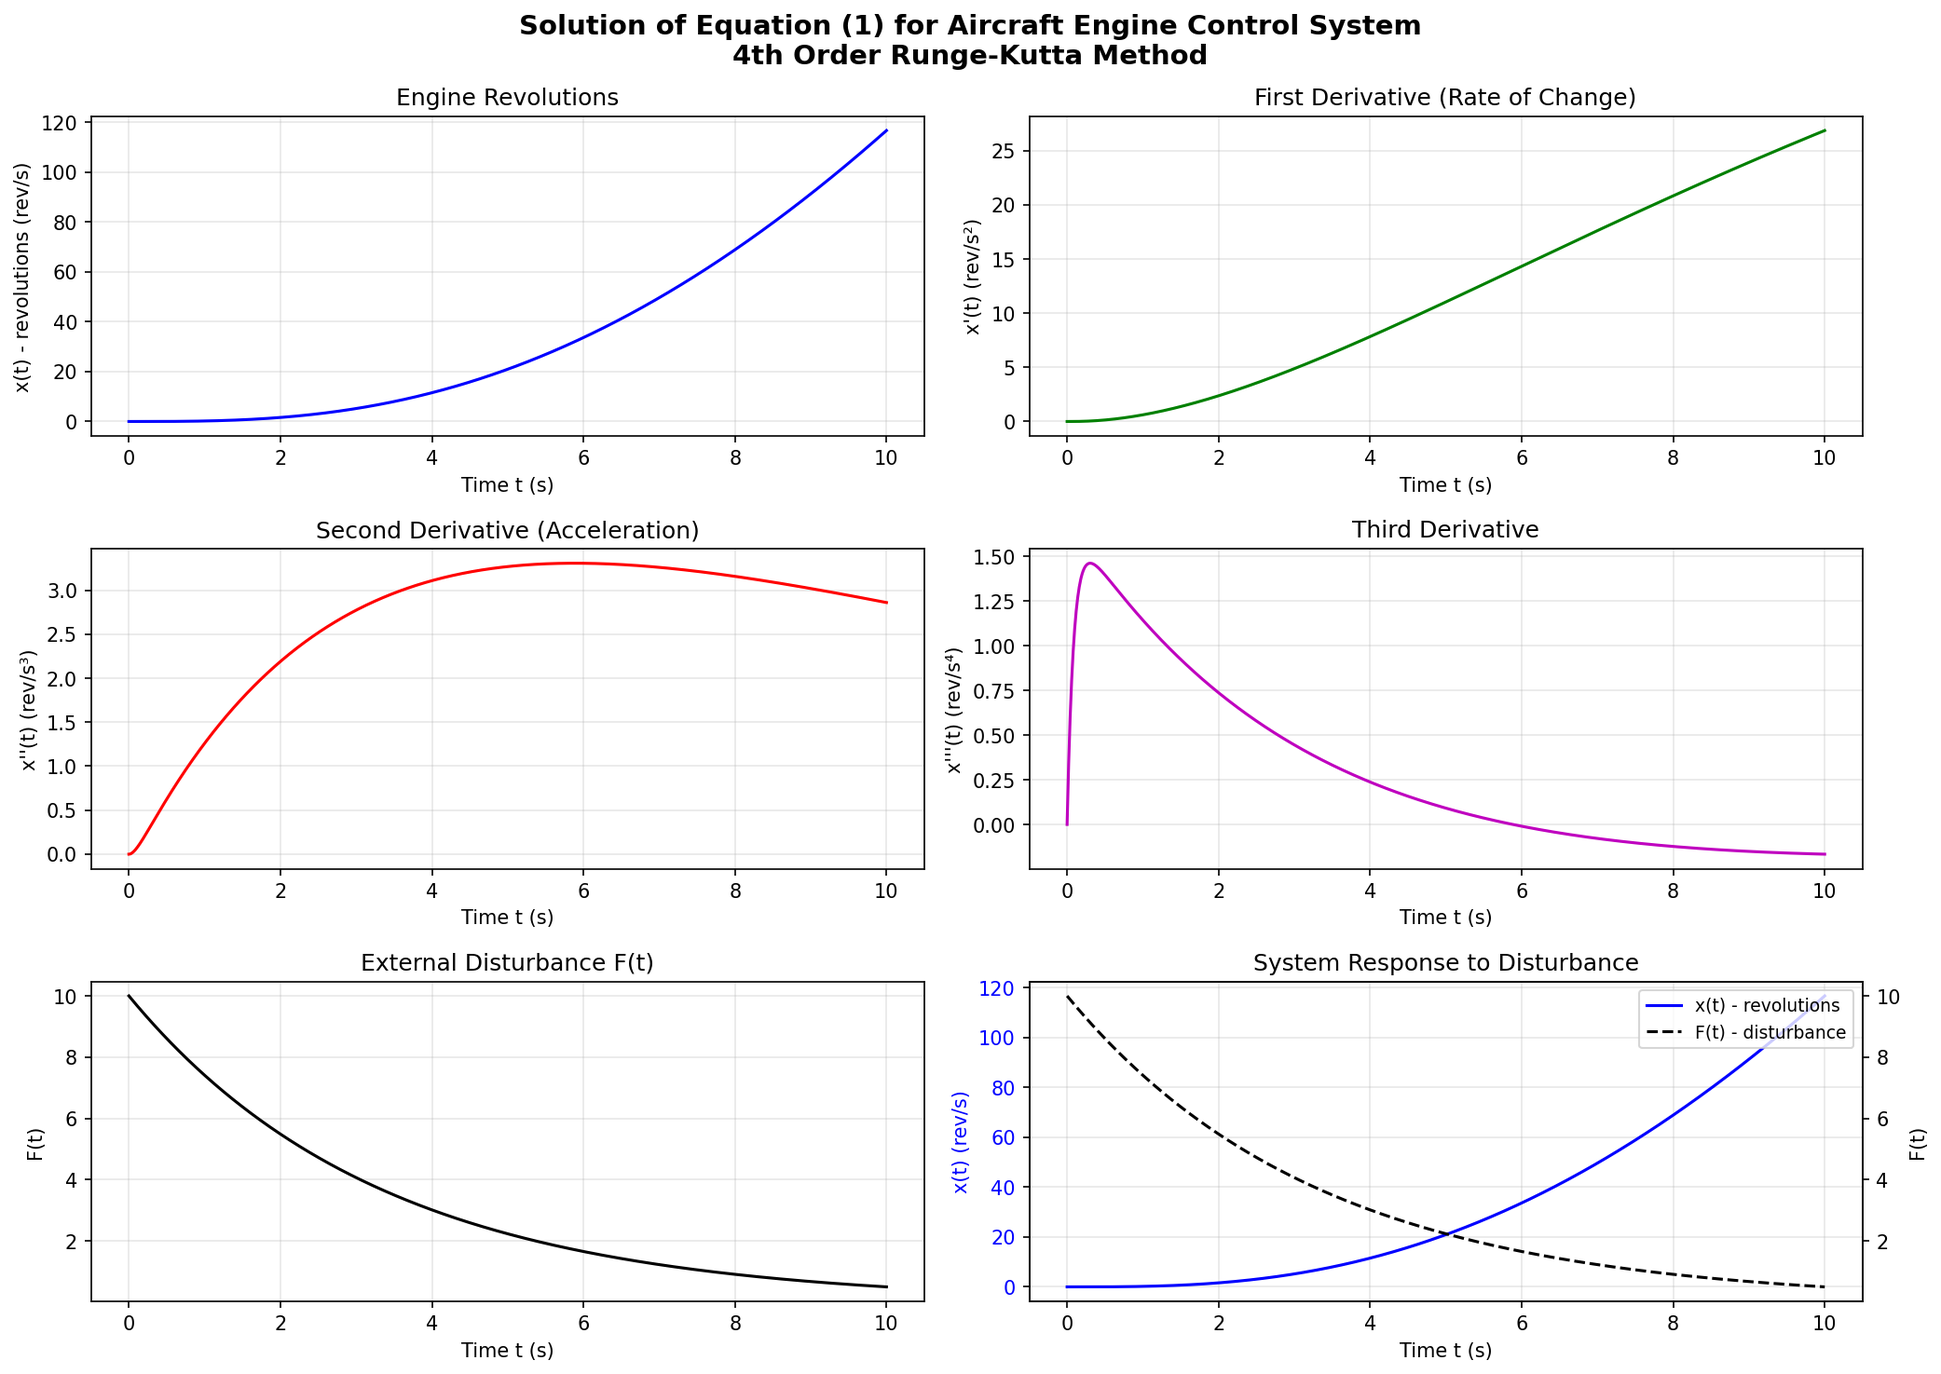
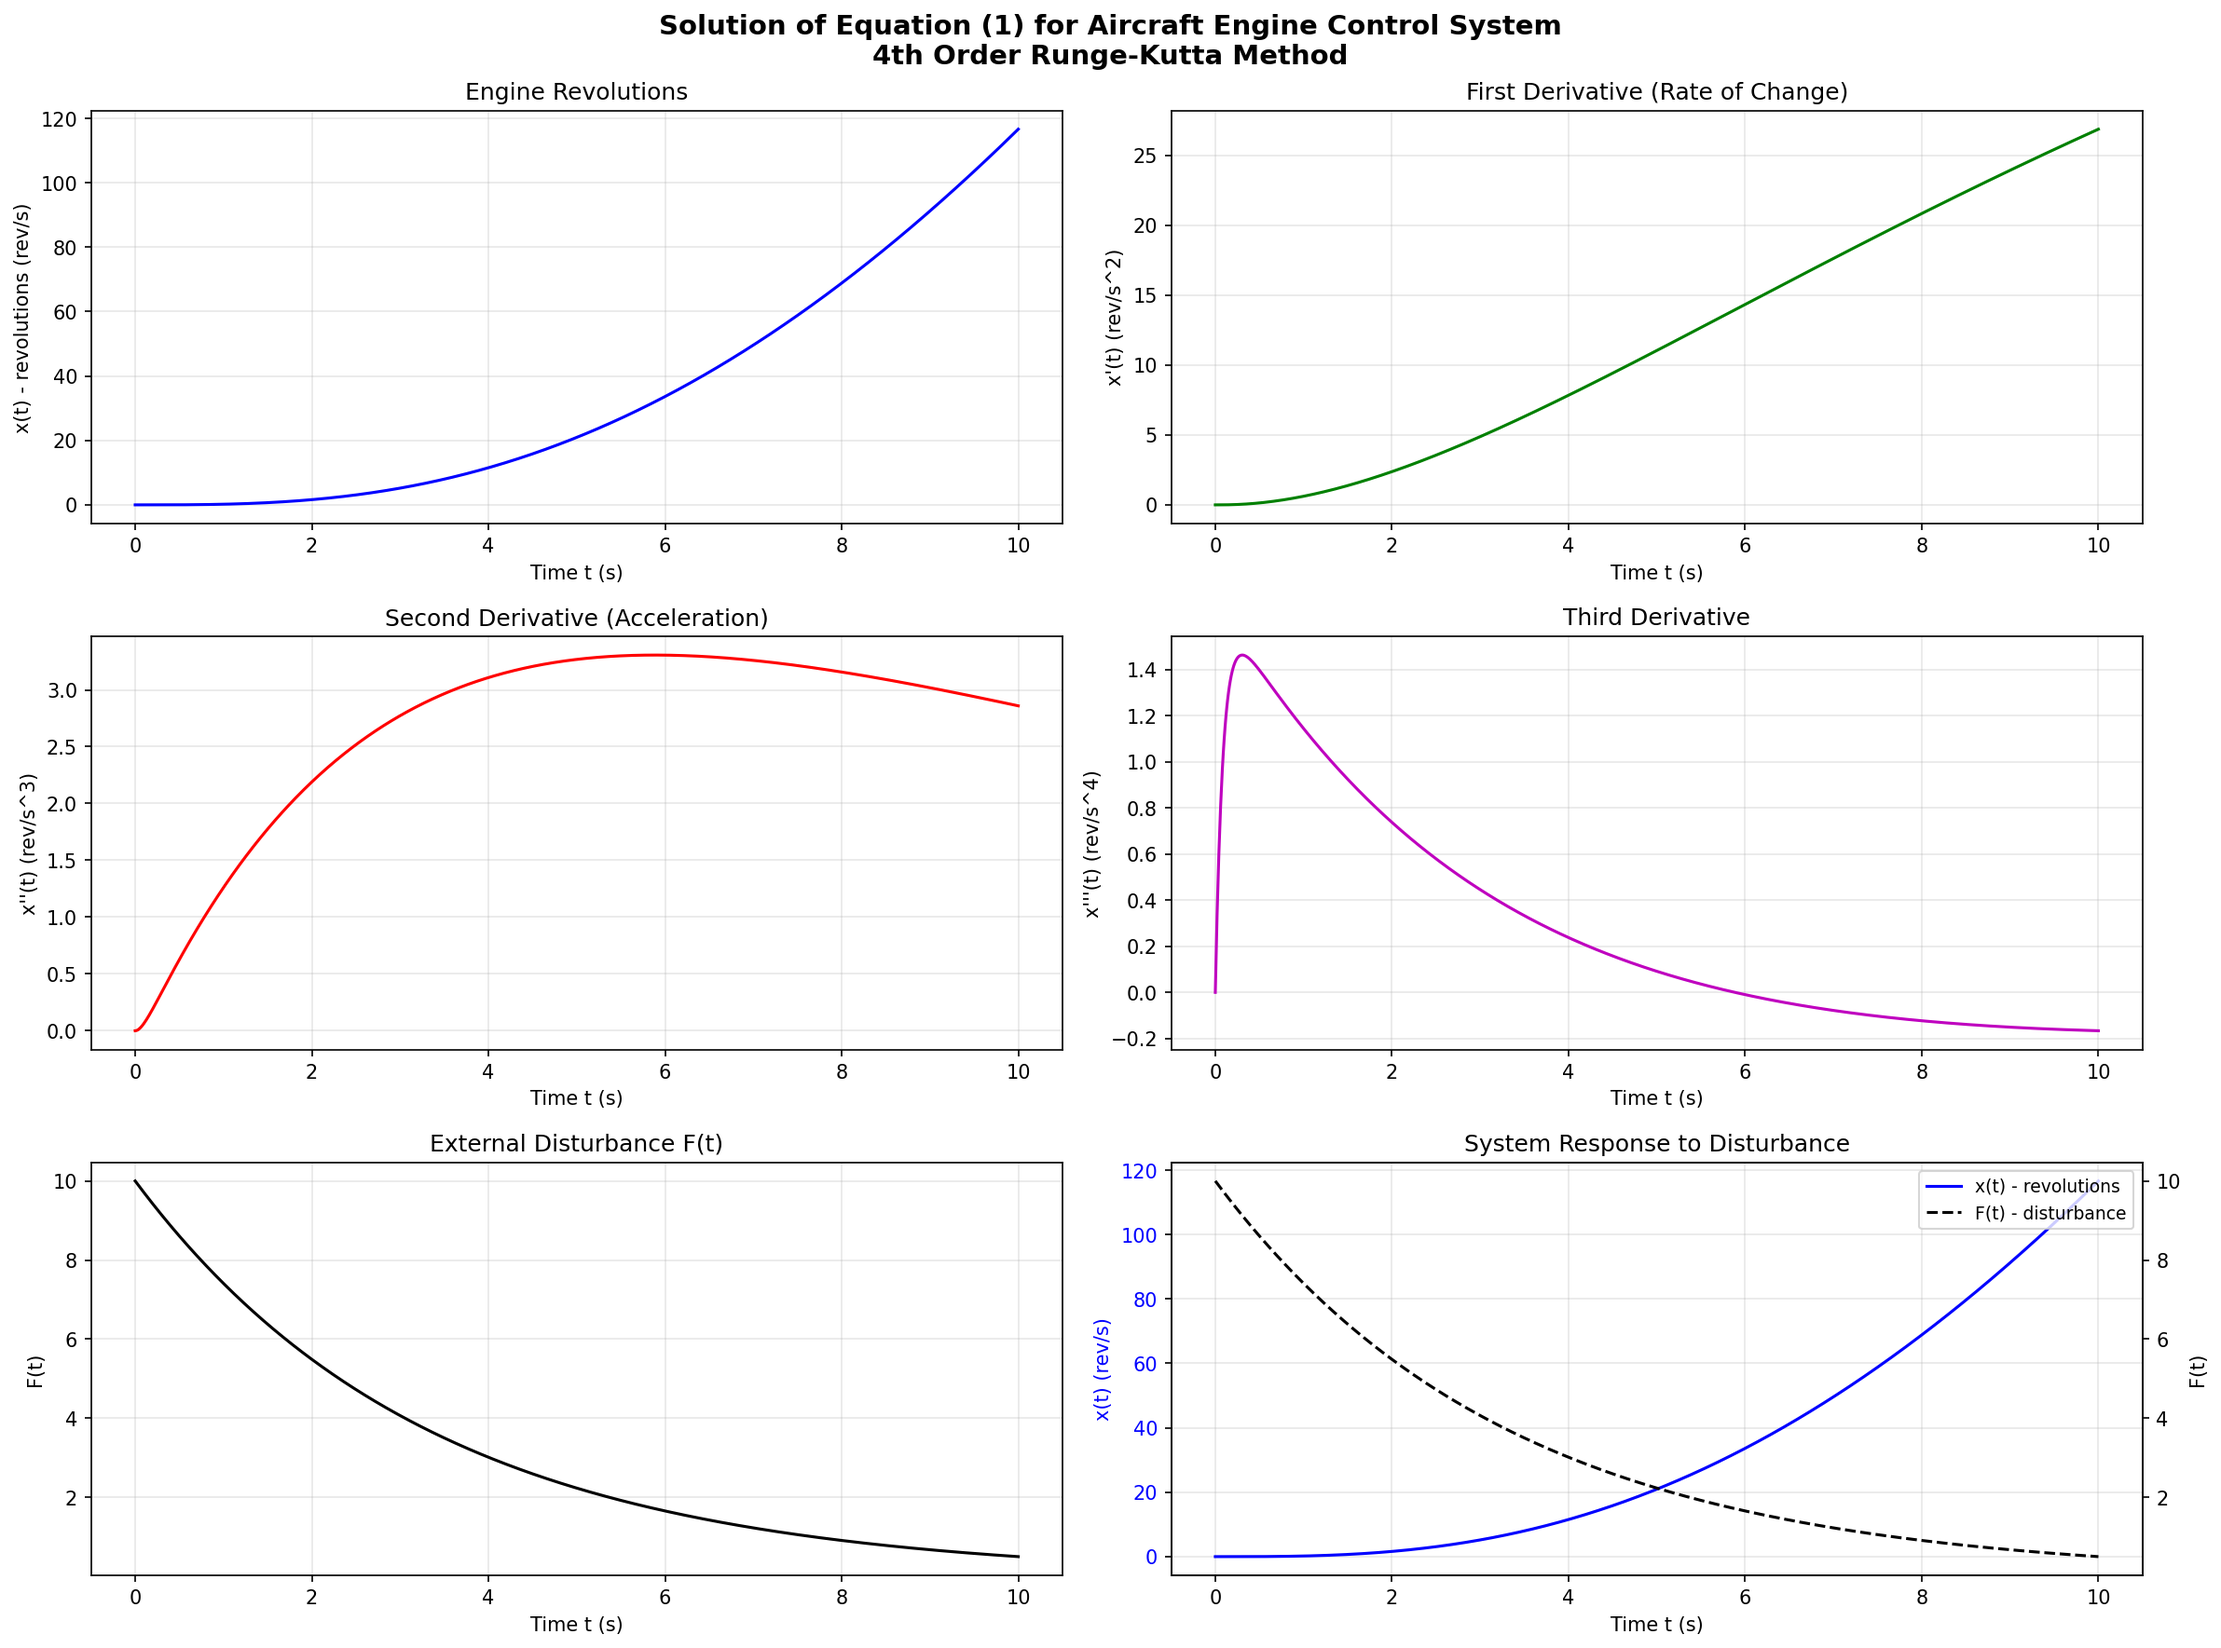
Confirmed by supervisor ver0.1

diff --git a/EngineModel.h b/EngineModel.h
@@ -2,6 +2,7 @@
 #include "Types.h"
 #include <cmath>
 #include <stdexcept>
+#include <iostream>
 
 class EngineModel {
 public:
@@ -9,20 +10,20 @@ public:
     // SYSTEM PARAMETERS from equation (1)
     //
     // Equation (1):
-    // T·d⁴x/dt⁴ + (1 + r·T·k₂)·d³x/dt³ + T·k₁·k₂·k₃·d²x/dt² =
-    //     = k₁·T·d³F/dt³ + (k₁ + r·T·k₂)·d²F/dt²
+    // T*d^4x/dt^4 + (1 + r*T*k2)*d^3x/dt^3 + T*k1*k2*k3*d^2x/dt^2 =
+    //     = k1*T*d^3F/dt^3 + (k1 + r*T*k2)*d^2F/dt^2
     // ==========================================
 
     // Time constant (seconds)
-    static constexpr double T = 0.1;
+    static double T;
 
     // Feedback coefficient (dimensionless)
-    static constexpr double r = 1.5;
+    static double r;
 
     // Transfer coefficients (dimensionless)
-    static constexpr double k1 = 2.0;
-    static constexpr double k2 = 1.0;
-    static constexpr double k3 = 0.5;
+    static double k1;
+    static double k2;
+    static double k3;
 
     // ==========================================
     // DISTURBANCE FUNCTION F(t) - ALWAYS POSITIVE!
@@ -31,11 +32,11 @@ public:
     // F(t) > 0 always (cannot be negative!)
     //
     // Exponential decay pulse:
-    // F(t) = F₀·exp(-α·t)
+    // F(t) = F0*exp(-alpha*t)
     // ==========================================
 
-    static constexpr double F0 = 10.0;    // Initial fuel supply
-    static constexpr double alpha = 0.3;  // Decay rate (1/s)
+    static double F0;    // Initial fuel supply
+    static double alpha;  // Decay rate (1/s)
 
     static double F(double t) {
         if (t < 0) return 0.0;
@@ -46,11 +47,11 @@ public:
     // ==========================================
     // DERIVATIVES OF DISTURBANCE F(t)
     //
-    // For F(t) = F₀·e^(-α·t):
+    // For F(t) = F0*e^(-alpha*t):
     //
-    // F'(t)   = -α·F₀·e^(-α·t)     = -α·F(t)
-    // F''(t)  = α²·F₀·e^(-α·t)     = α²·F(t)
-    // F'''(t) = -α³·F₀·e^(-α·t)    = -α³·F(t)
+    // F'(t)   = -alpha*F0*e^(-alpha*t)     = -alpha*F(t)
+    // F''(t)  = alpha^2*F0*e^(-alpha*t)    = alpha^2*F(t)
+    // F'''(t) = -alpha^3*F0*e^(-alpha*t)   = -alpha^3*F(t)
     // ==========================================
 
     static double F_first_derivative(double t) {
@@ -70,18 +71,18 @@ public:
     //
     // Reducing 4th order equation to 1st order system:
     //
-    // y₀ = x        →  dy₀/dt = y₁       (kinematics)
-    // y₁ = x'       →  dy₁/dt = y₂       (kinematics)
-    // y₂ = x''      →  dy₂/dt = y₃       (kinematics)
-    // y₃ = x'''     →  dy₃/dt = x⁽⁴⁾     (dynamics)
+    // y0 = x        ->  dy0/dt = y1       (kinematics)
+    // y1 = x'       ->  dy1/dt = y2       (kinematics)
+    // y2 = x''      ->  dy2/dt = y3       (kinematics)
+    // y3 = x'''     ->  dy3/dt = x(4)     (dynamics)
     //
-    // From equation (1), expressing x⁽⁴⁾:
+    // From equation (1), expressing x(4):
     //
-    // T·x⁽⁴⁾ = k₁·T·F⁽³⁾ + (k₁ + r·T·k₂)·F⁽²⁾
-    //          - (1 + r·T·k₂)·x⁽³⁾ - T·k₁·k₂·k₃·x⁽²⁾
+    // T*x(4) = k1*T*F''' + (k1 + r*T*k2)*F''
+    //          - (1 + r*T*k2)*x''' - T*k1*k2*k3*x''
     //
-    // x⁽⁴⁾ = [k₁·T·F⁽³⁾ + (k₁ + r·T·k₂)·F⁽²⁾
-    //         - (1 + r·T·k₂)·x⁽³⁾ - T·k₁·k₂·k₃·x⁽²⁾] / T
+    // x(4) = [k1*T*F''' + (k1 + r*T*k2)*F''
+    //         - (1 + r*T*k2)*x''' - T*k1*k2*k3*x''] / T
     // ==========================================
     static State computeDerivatives(double t, const State& current_state) {
         State dydt;
@@ -102,8 +103,8 @@ public:
 
         // Dynamics (from equation 1)
         // Get disturbance derivatives at current time
-        double F_dd = F_second_derivative(t);   // d²F/dt²
-        double F_ddd = F_third_derivative(t);   // d³F/dt³
+        double F_dd = F_second_derivative(t);   // d^2F/dt^2
+        double F_ddd = F_third_derivative(t);   // d^3F/dt^3
 
         // Calculate coefficients from equation (1)
         double coef_x_triple = (1.0 + r * T * k2);     // Coefficient at x'''
@@ -116,13 +117,13 @@ public:
             throw std::runtime_error("T cannot be zero (singular system).");
         }
 
-        // Calculate x⁽⁴⁾ from equation (1)
-        // x⁽⁴⁾ = [k₁·T·F⁽³⁾ + (k₁ + r·T·k₂)·F⁽²⁾ - (1 + r·T·k₂)·x⁽³⁾ - T·k₁·k₂·k₃·x⁽²⁾] / T
+        // Calculate x(4) from equation (1)
+        // x(4) = [k1*T*F''' + (k1 + r*T*k2)*F'' - (1 + r*T*k2)*x''' - T*k1*k2*k3*x''] / T
         double x_fourth = (coef_F_ddd * F_ddd + coef_F_dd * F_dd
                           - coef_x_triple * x_triple
                           - coef_x_double * x_double) / T;
 
-        dydt[3] = x_fourth;  // d(x''')/dt = x⁽⁴⁾
+        dydt[3] = x_fourth;  // d(x''')/dt = x(4)
 
         return dydt;
     }
@@ -154,8 +155,8 @@ public:
         std::cout << "k3 = " << k3 << " (transfer coefficient 3)" << std::endl;
         std::cout << std::endl;
         std::cout << "Disturbance F(t):" << std::endl;
-        std::cout << "F₀ = " << F0 << " (initial value)" << std::endl;
-        std::cout << "α  = " << alpha << " (decay coefficient, 1/s)" << std::endl;
+        std::cout << "F0    = " << F0 << " (initial value)" << std::endl;
+        std::cout << "alpha = " << alpha << " (decay coefficient, 1/s)" << std::endl;
         std::cout << std::endl;
         std::cout << "Coefficients in notation (2):" << std::endl;
         std::cout << "C1 = " << compute_C1() << std::endl;
@@ -164,3 +165,12 @@ public:
         std::cout << "=========================" << std::endl;
     }
 };
+
+// Initialize static members
+double EngineModel::T = 0.0;
+double EngineModel::r = 0.0;
+double EngineModel::k1 = 0.0;
+double EngineModel::k2 = 0.0;
+double EngineModel::k3 = 0.0;
+double EngineModel::F0 = 0.0;
+double EngineModel::alpha = 0.0;

diff --git a/Main.cpp b/Main.cpp
@@ -1,18 +1,103 @@
 #include <iostream>
 #include <fstream>
 #include <iomanip>
+#include <string>
+#include <sstream>
+#include <limits>
 
 #include "Types.h"
 #include "EngineModel.h"
 #include "RungeKutta.h"
 
+// Function to read a double value with default option
+double readDoubleWithDefault(const std::string& prompt, double defaultValue, double minValue = -std::numeric_limits<double>::infinity(), double maxValue = std::numeric_limits<double>::infinity()) {
+    std::string input;
+    std::cout << prompt;
+    std::getline(std::cin, input);
+
+    // If empty input, return default value
+    if (input.empty()) {
+        return defaultValue;
+    }
+
+    // Try to parse the input
+    std::stringstream ss(input);
+    double value;
+
+    if (ss >> value && ss.eof()) {
+        // Check if value is within allowed range
+        if (value >= minValue && value <= maxValue) {
+            return value;
+        }
+    }
+
+    // If parsing failed or value out of range, return default
+    return defaultValue;
+}
+
 int main() {
+    std::cout << "=== AIRCRAFT ENGINE CONTROL SYSTEM SIMULATION ===" << std::endl;
+    std::cout << "Method: 4th Order Runge-Kutta" << std::endl;
+    std::cout << std::endl;
+
     // ==========================================
-    // SIMULATION PARAMETERS
+    // INPUT SYSTEM PARAMETERS
     // ==========================================
-    const double t_start = 0.0;      // Start time
-    const double t_end = 10.0;       // End time of simulation
-    const double h = 0.01;           // Integration step (smaller step = higher accuracy)
+    std::cout << "Enter system parameters (press Enter for default values):" << std::endl;
+    std::cout << std::endl;
+
+    EngineModel::T = readDoubleWithDefault(
+        "Time constant T (seconds) [default: 0.1]: ",
+        0.1, 1e-6, 1000.0);
+
+    EngineModel::r = readDoubleWithDefault(
+        "Feedback coefficient r [default: 1.5]: ",
+        1.5, -100.0, 100.0);
+
+    EngineModel::k1 = readDoubleWithDefault(
+        "Transfer coefficient k1 [default: 2.0]: ",
+        2.0, -1000.0, 1000.0);
+
+    EngineModel::k2 = readDoubleWithDefault(
+        "Transfer coefficient k2 [default: 1.0]: ",
+        1.0, -1000.0, 1000.0);
+
+    EngineModel::k3 = readDoubleWithDefault(
+        "Transfer coefficient k3 [default: 0.5]: ",
+        0.5, -1000.0, 1000.0);
+
+    std::cout << std::endl;
+    std::cout << "Disturbance parameters F(t) = F0*exp(-alpha*t):" << std::endl;
+
+    EngineModel::F0 = readDoubleWithDefault(
+        "Initial disturbance F0 [default: 10.0]: ",
+        10.0, 0.0, 1e6);
+
+    EngineModel::alpha = readDoubleWithDefault(
+        "Decay coefficient alpha (1/s) [default: 0.3]: ",
+        0.3, 0.0, 1000.0);
+
+    std::cout << std::endl;
+
+    // ==========================================
+    // INPUT SIMULATION PARAMETERS
+    // ==========================================
+    std::cout << "Enter simulation parameters:" << std::endl;
+    std::cout << std::endl;
+
+    double t_start = readDoubleWithDefault(
+        "Start time t_start (s) [default: 0.0]: ",
+        0.0, 0.0, 1e6);
+
+    double t_end = readDoubleWithDefault(
+        "End time t_end (s) [default: 10.0]: ",
+        10.0, t_start + 0.001, 1e6);
+
+    double h = readDoubleWithDefault(
+        "Integration step h (s) [default: 0.01]: ",
+        0.01, 1e-6, (t_end - t_start) / 10.0);
+
+    std::cout << std::endl;
 
     // ==========================================
     // INITIAL CONDITIONS
@@ -31,17 +116,8 @@ int main() {
     }
 
     // CSV headers
-    // t      - time (s)
-    // x      - revolutions (rev/s) - system output
-    // x_d    - rate of change of revolutions (x') - (rev/s²)
-    // x_dd   - acceleration (x'') - (rev/s³)
-    // x_ddd  - third derivative (x''') - (rev/s⁴)
-    // x_dddd - fourth derivative (x⁽⁴⁾) - (rev/s⁵)
-    // F      - disturbance F(t)
     file << "t;x;x_d;x_dd;x_ddd;x_dddd;F\n";
 
-    std::cout << "=== AIRCRAFT ENGINE CONTROL SYSTEM SIMULATION ===" << std::endl;
-    std::cout << "Method: 4th Order Runge-Kutta" << std::endl;
     std::cout << "Time interval: [" << t_start << ", " << t_end << "] s" << std::endl;
     std::cout << "Integration step: h = " << h << " s" << std::endl;
     std::cout << std::endl;
@@ -64,7 +140,7 @@ int main() {
         double x_d_val   = state[1];        // x' - rate of change
         double x_dd_val  = state[2];        // x'' - acceleration
         double x_ddd_val = state[3];        // x''' - third derivative
-        double x_dddd_val = derivatives[3]; // x⁽⁴⁾ - fourth derivative
+        double x_dddd_val = derivatives[3]; // x(4) - fourth derivative
 
         // Disturbance value
         double F_val = EngineModel::F(t);
@@ -91,9 +167,9 @@ int main() {
     std::cout << "  Results saved to file: simulation_results.csv" << std::endl;
     std::cout << std::endl;
     std::cout << "Final system state (t = " << t_end << " s):" << std::endl;
-    std::cout << "  x      = " << std::setprecision(4) << state[0] << " rev/s" << std::endl;
-    std::cout << "  x'     = " << std::setprecision(4) << state[1] << " rev/s²" << std::endl;
-    std::cout << "  F(t)   = " << std::setprecision(4) << EngineModel::F(t_end) << std::endl;
+    std::cout << "  x   = " << std::setprecision(4) << state[0] << " rev/s" << std::endl;
+    std::cout << "  x'  = " << std::setprecision(4) << state[1] << " rev/s^2" << std::endl;
+    std::cout << "  F(t) = " << std::setprecision(4) << EngineModel::F(t_end) << std::endl;
     std::cout << std::endl;
 
     std::cout << "Starting results visualization..." << std::endl;

diff --git a/visualize.py b/visualize.py
@@ -11,7 +11,7 @@ def main():
     # Check input file existence
     input_file = 'simulation_results.csv'
     if not os.path.exists(input_file):
-        print(f"✗ Error: File '{input_file}' not found!")
+        print(f"[ERROR] File '{input_file}' not found!")
         print("   Run the simulation program first.")
         sys.exit(1)
 
@@ -27,19 +27,19 @@ def main():
         missing_columns = [col for col in required_columns if col not in df.columns]
 
         if missing_columns:
-            print(f"✗ Error: Missing columns in file: {missing_columns}")
+            print(f"[ERROR] Missing columns in file: {missing_columns}")
             print(f"   Available columns: {df.columns.tolist()}")
             sys.exit(1)
 
-        print(f"✓ Loaded {len(df)} data points")
+        print(f"[OK] Loaded {len(df)} data points")
 
     except Exception as e:
-        print(f"✗ Error reading file: {e}")
+        print(f"[ERROR] Error reading file: {e}")
         sys.exit(1)
 
     try:
         # Create figure with subplots
-        fig, axes = plt.subplots(3, 2, figsize=(14, 10))
+        fig, axes = plt.subplots(3, 2, figsize=(16, 12))
         fig.suptitle('Solution of Equation (1) for Aircraft Engine Control System\n4th Order Runge-Kutta Method',
                      fontsize=14, fontweight='bold')
 
@@ -53,21 +53,21 @@ def main():
         # Plot 2: x'(t) - rate of change of revolutions
         axes[0, 1].plot(df['t'], df['x_d'], 'g-', linewidth=1.5)
         axes[0, 1].set_xlabel('Time t (s)', fontsize=10)
-        axes[0, 1].set_ylabel('x\'(t) (rev/s²)', fontsize=10)
+        axes[0, 1].set_ylabel('x\'(t) (rev/s^2)', fontsize=10)
         axes[0, 1].set_title('First Derivative (Rate of Change)')
         axes[0, 1].grid(True, alpha=0.3)
 
         # Plot 3: x''(t) - acceleration
         axes[1, 0].plot(df['t'], df['x_dd'], 'r-', linewidth=1.5)
         axes[1, 0].set_xlabel('Time t (s)', fontsize=10)
-        axes[1, 0].set_ylabel('x\'\'(t) (rev/s³)', fontsize=10)
+        axes[1, 0].set_ylabel('x\'\'(t) (rev/s^3)', fontsize=10)
         axes[1, 0].set_title('Second Derivative (Acceleration)')
         axes[1, 0].grid(True, alpha=0.3)
 
         # Plot 4: x'''(t) - third derivative
         axes[1, 1].plot(df['t'], df['x_ddd'], 'm-', linewidth=1.5)
         axes[1, 1].set_xlabel('Time t (s)', fontsize=10)
-        axes[1, 1].set_ylabel('x\'\'\'(t) (rev/s⁴)', fontsize=10)
+        axes[1, 1].set_ylabel('x\'\'\'(t) (rev/s^4)', fontsize=10)
         axes[1, 1].set_title('Third Derivative')
         axes[1, 1].grid(True, alpha=0.3)
 
@@ -103,7 +103,7 @@ def main():
         # Save plots
         output_path = 'simulation_results.png'
         plt.savefig(output_path, dpi=150, bbox_inches='tight')
-        print(f"✓ Plots saved to file: {output_path}")
+        print(f"[OK] Plots saved to file: {output_path}")
 
         # Statistics
         print("\n=== SOLUTION STATISTICS ===")
@@ -123,7 +123,7 @@ def main():
         return 0
 
     except Exception as e:
-        print(f"✗ Error creating plots: {e}")
+        print(f"[ERROR] Error creating plots: {e}")
         import traceback
         traceback.print_exc()
         return 1
